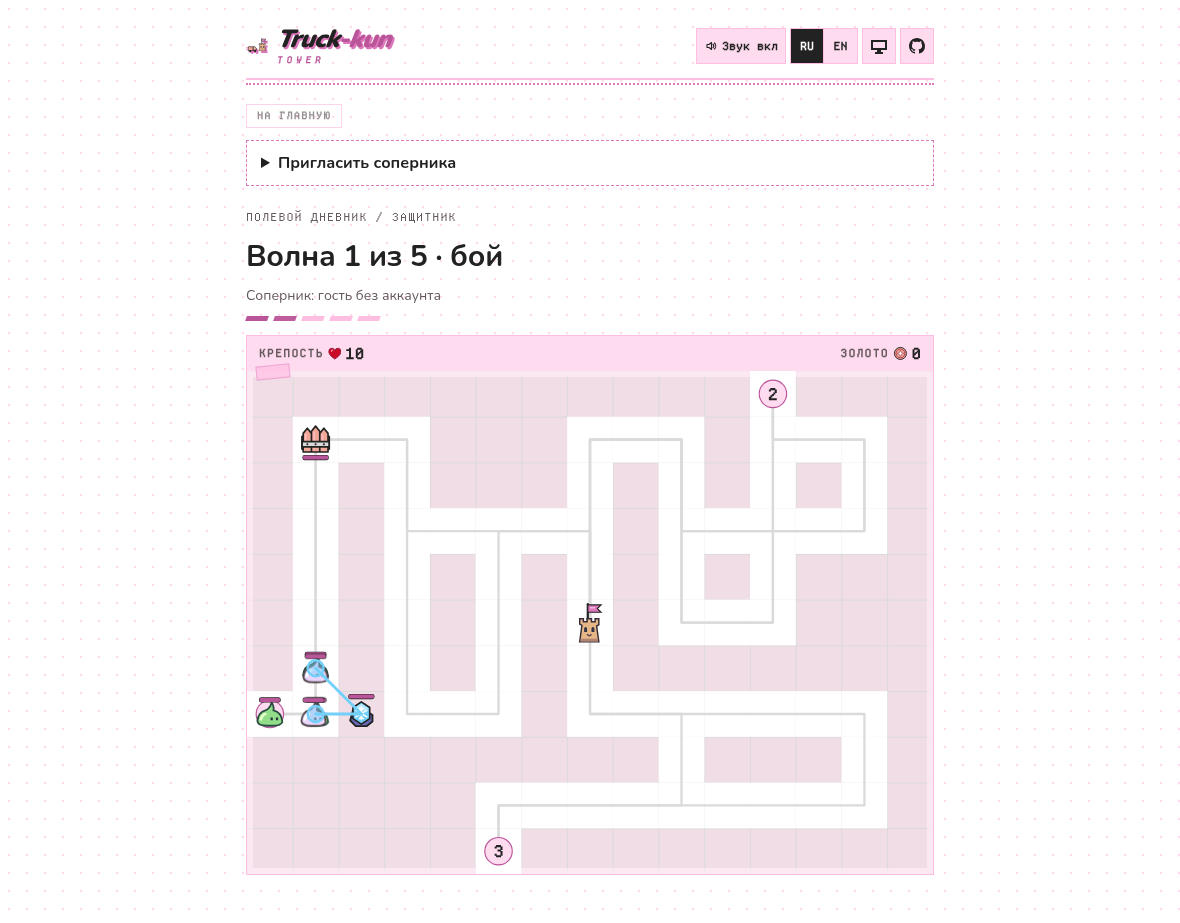
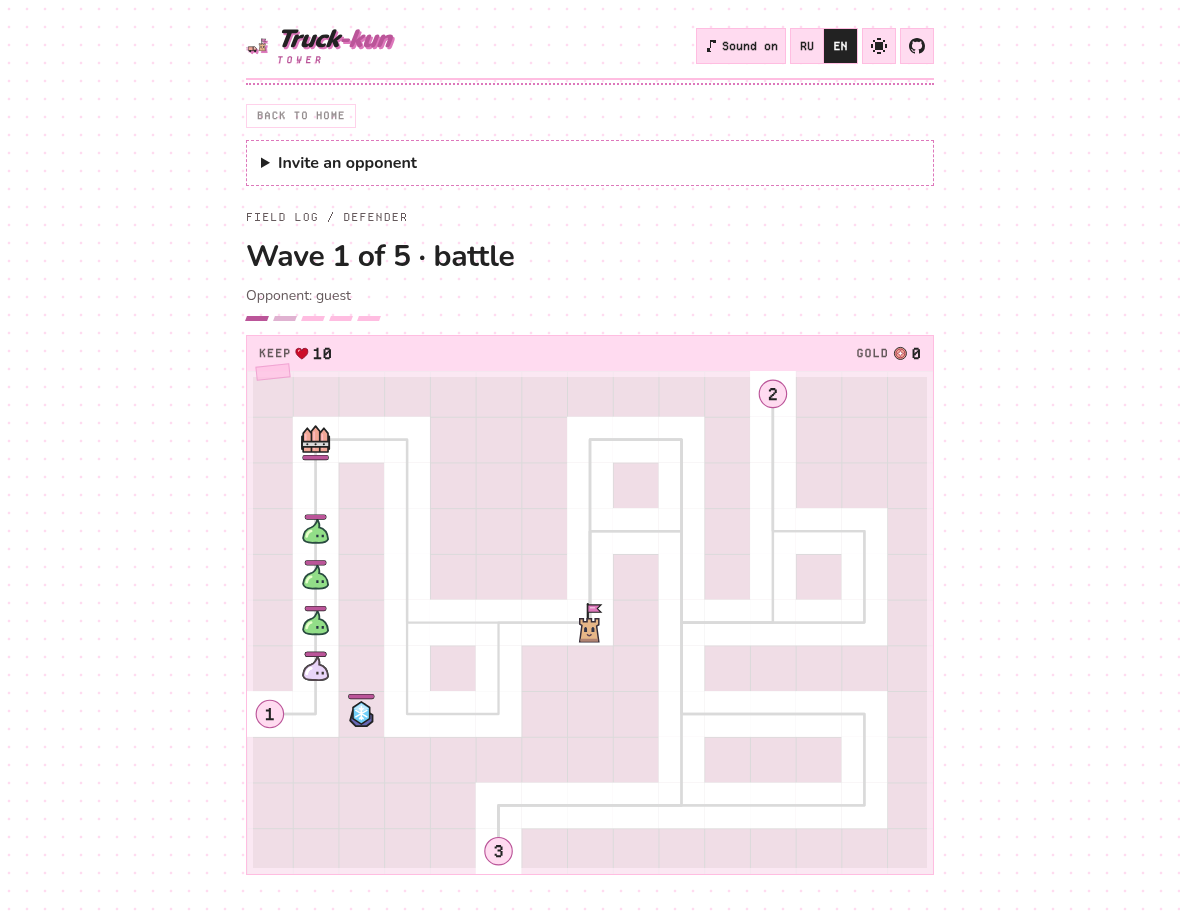
Shoot the pictures in English
The screenshots and the demo GIF showed the Russian page beside English
art. The GIF takes `--lang` for that, and the three screenshots get a
recipe at all: `tools/shots.mjs` plays a duel on a live game and writes
`cover.png`, `planning.png` and `battle.png`, or fails with the old set
untouched.

Assisted-by: pi:gpt-6.2-sol (mostly)

diff --git a/tools/README.md b/tools/README.md
@@ -18,14 +18,35 @@ The script plays three empty waves with two guest seats and no account, because 
 
 It records that replay and composes the frame itself, with a brand panel on the left and the board with its status line and wave pips on the right, so every run lays the same frame out the same way
 
+The frames are English, because the art and the caption the GIF travels with are English; `--lang ru` records the Russian page instead
+
 A run fails with a non-zero exit and one line naming the cause when a tower cannot be bought, when the page never starts a replay, when the wave is too long to hold its pace in a 9-10 s loop, or when ffprobe reports a size other than 640×360. The GIF in `docs/` is left as it was, because the new one only replaces it after it passes
 
 | Option | Effect |
 | --- | --- |
 | `--url <url>` | record another game |
 | `--out <file>` | write the GIF elsewhere |
+| `--lang <code>` | `en` or `ru`, the language of the frames (default `en`) |
 | `--frames <dir>` | keep the PNG frames in a new, empty directory |
 | `--keep-frames` | keep the frames in a temporary directory and print its path |
+
+## Screenshots
+
+`docs/cover.png`, `docs/planning.png` and `docs/battle.png` come from one command, so they never drift from the interface they show
+
+```sh
+node tools/shots.mjs
+```
+
+It opens the live site, plays a real duel between two guest seats, buys a frost tower off the road and a fence on its offered cell, then lets the first wave run and shoots the three states: the sign-in card, the planning screen and the fight. Like the GIF it reads `PLAYWRIGHT_CORE` and `CHROMIUM`, and `--url` names another game
+
+Each picture is written beside its final name and moved over it only when all three exist, so a run that dies halfway leaves the previous set in place. A run fails when the board never offers the frost tower, when the maze has no cell beside its road or when the page raises an error
+
+| Option | Effect |
+| --- | --- |
+| `--url <url>` | shoot another game |
+| `--lang <code>` | `en` or `ru`, the language of the screenshots (default `en`) |
+| `--out <dir>` | write the screenshots elsewhere |
 
 ## Banner and link preview
 

diff --git a/AGENTS.md b/AGENTS.md
@@ -61,4 +61,5 @@ docker run --rm --network=host -v "$PWD:/src" -v nuget-cache:/root/.nuget/packag
 - `docs/` holds what the README and the old bot profile needed: a 640×360 banner, a 640×360 demo GIF and a 512×512 avatar. They are not game sources
 - `ASSETS.md` names every borrowed font and the vendored theme
 - `docs/truck-kun-tower.jpg` is the one artwork behind `docs/telegram-banner.png` (640×360) and `docs/og.png` (1200×630, the link preview the page names in `og:image`). `node tools/banner.mjs` draws both and copies the preview to `wwwroot/og.png`, which the site serves: the picture is fitted to each frame's width, so a crop cannot cut the drawn wordmark and a stretch cannot lengthen the truck. Both take black in the margin, which frames the picture on a messenger's light and dark ground alike
+- `node tools/shots.mjs` plays a real duel and shoots `docs/cover.png`, `docs/planning.png` and `docs/battle.png` in English, with `--lang ru` for the Russian page; `node tools/demo-gif.mjs` records `docs/telegram-demo.gif` the same way and takes the same flag
 - `node tools/icons.mjs` draws the favicon set from `docs/logo.png`: `wwwroot/favicon.ico` at 16, 32 and 48, `wwwroot/icon-192.png`, `wwwroot/icon-512.png` and `wwwroot/apple-touch-icon.png`, which `wwwroot/site.webmanifest` and the page's icon links name
